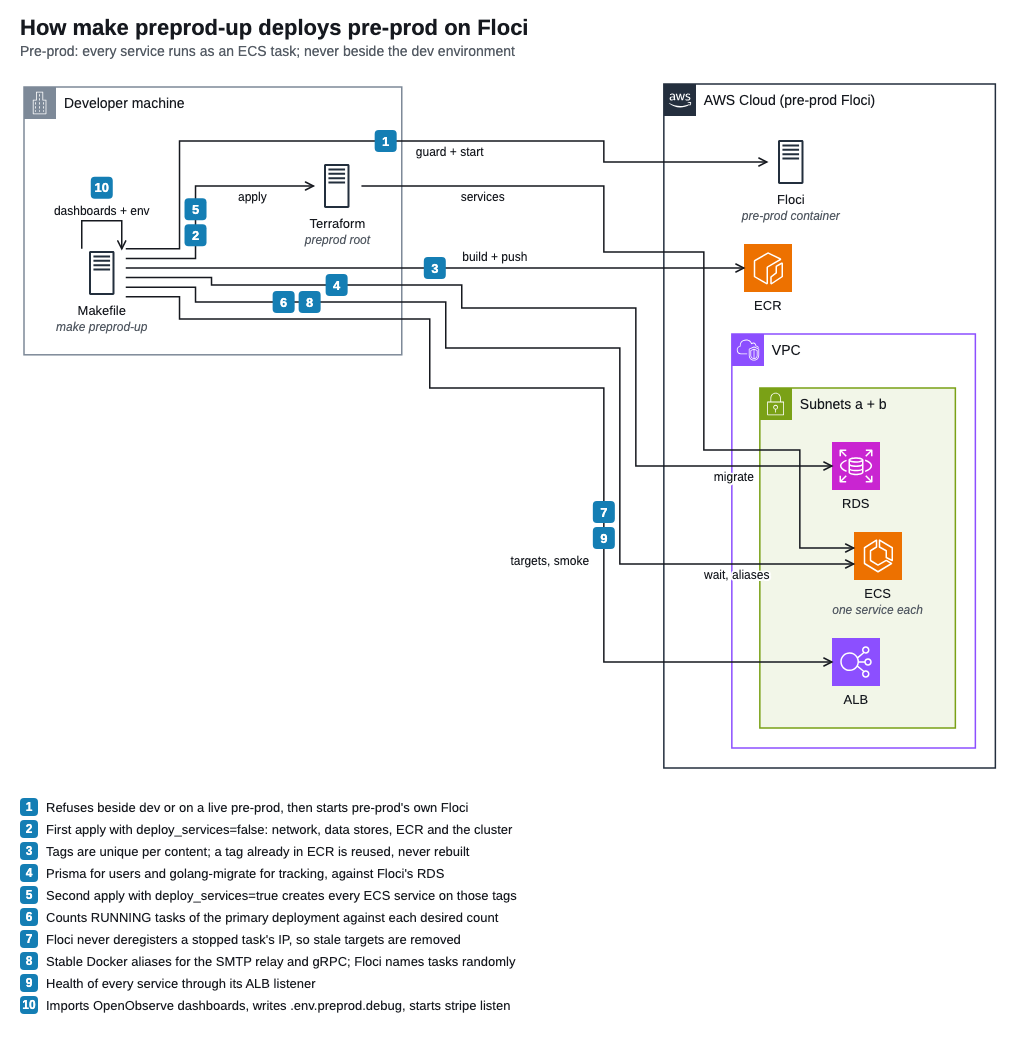
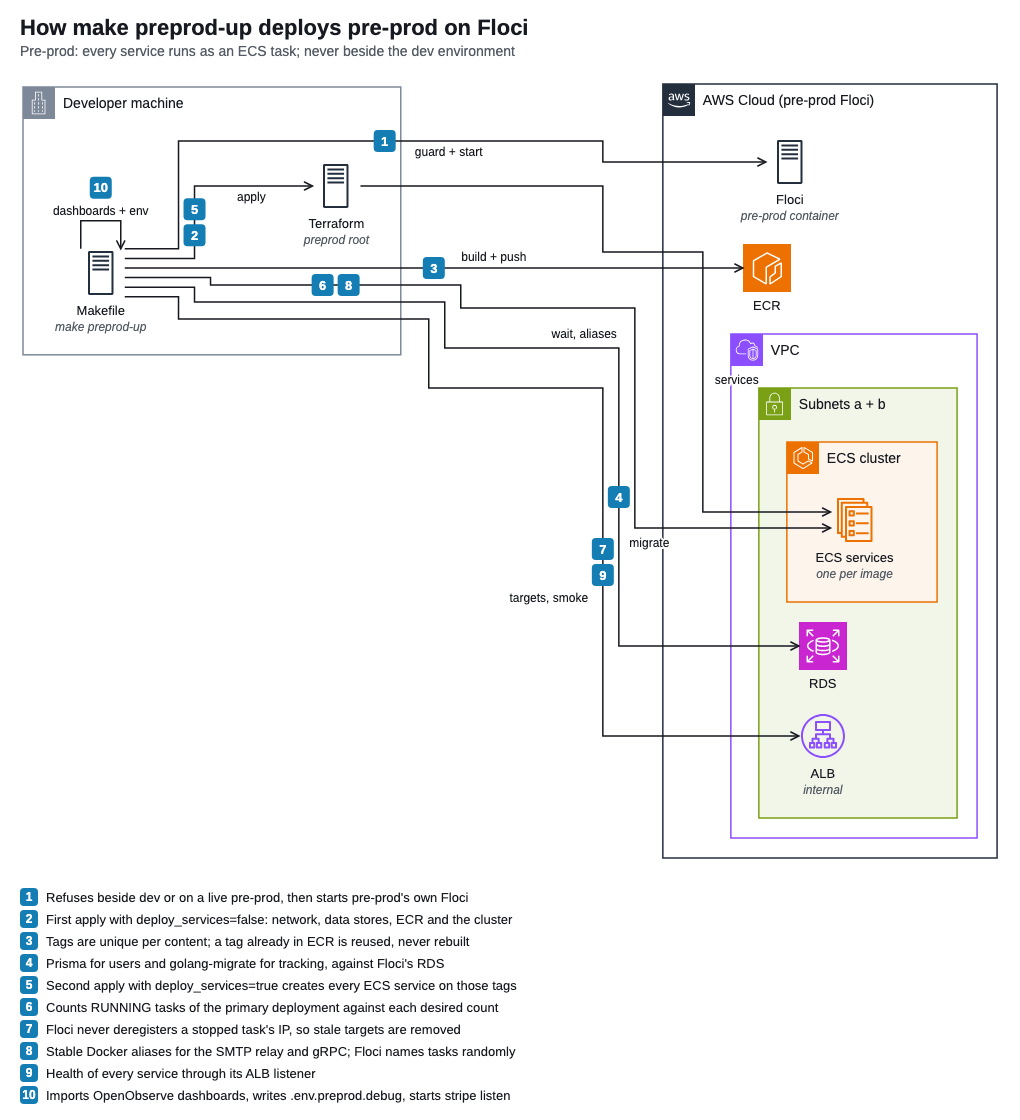
feat(diagrams): ECS cluster and AZ lanes in the pre-prod diagrams
Pre-prod draws one ECS cluster with its seven Fargate tasks inside a VPC split into us-east-1a/b lanes; nested frame ports keep clear of outer routes; dev's nginx task sits in an ECS cluster frame.

diff --git a/diagrams/src/data/architecture/preprod.ts b/diagrams/src/data/architecture/preprod.ts
@@ -1,52 +1,66 @@
 import type { z } from "zod";
 import type { AwsDiagramData } from "../../aws/schema";
 
-// CONTRACT: only what Terraform attaches to module.networking's subnets sits in the subnet (ALB, ECS
-// services, RDS, DocDB); ElastiCache has no subnet group, Lambda no vpc_config. Sources:
-// infra/environments/preprod/{main,services}.tf, infra/modules/{networking,alb,ecs-service,
-// app-config,ecr,messaging,redis}, docker-compose.preprod.yml.
+// CONTRACT: only what Terraform attaches to module.networking's subnets sits in the VPC (ALB, the
+// ECS services of aws_ecs_cluster.this, RDS, DocDB); ElastiCache has no subnet group, Lambda no
+// vpc_config. Sources: infra/environments/preprod/{main,services}.tf, infra/modules/{networking,
+// alb,ecs-service,app-config,ecr,messaging,redis}, docker-compose.preprod.yml.
 export const architecturePreprod: z.input<typeof AwsDiagramData> = {
   title: "Architecture — pre-prod (ECS on Floci)",
-  subtitle: "Every service is an ECS task on its own Floci; the ALB has one listener per service",
+  subtitle: "One ECS cluster across two AZs: ECS places each Fargate task in either subnet; one ALB listener per service",
   direction: "RIGHT",
   groups: [
     { id: "cloud", kind: "aws-cloud", label: "AWS Cloud (pre-prod Floci)" },
     { id: "region", kind: "region", label: "us-east-1", parent: "cloud" },
-    { id: "vpc", kind: "vpc", label: "VPC", parent: "region" },
-    { id: "subnets", kind: "public-subnet", label: "Subnets a + b (us-east-1a/b)", parent: "vpc" },
-    { id: "services", kind: "generic", label: "Service tasks", parent: "subnets" },
+    {
+      id: "vpc", kind: "vpc", label: "VPC 10.1.0.0/16", parent: "region",
+      lanes: [
+        { label: "us-east-1a", sublabel: "Public subnet 10.1.1.0/24" },
+        { label: "us-east-1b", sublabel: "Public subnet 10.1.2.0/24" },
+      ],
+    },
+    { id: "cluster", kind: "ecs-cluster", label: "ECS cluster", parent: "vpc" },
+    { id: "backend", kind: "generic", label: "Backend services", parent: "cluster" },
     { id: "events", kind: "generic", label: "Event pipeline", parent: "region" },
   ],
   nodes: [
     { id: "browser", label: "Browser (SPA)", icon: "client" },
     { id: "apigw", label: "API Gateway", sublabel: "Cognito JWT", icon: "api-gateway", group: "region" },
-    { id: "deploy", label: "Task config", sublabel: "ECR + SSM", icon: "ecr", group: "region" },
-    { id: "alb", label: "ALB", sublabel: "listener per service", icon: "elb", group: "subnets" },
-    { id: "web", label: "Web task", icon: "ecs", group: "subnets" },
-    { id: "orders", label: "Orders task", icon: "ecs", group: "services" },
-    { id: "tracking", label: "Tracking task", icon: "ecs", group: "services" },
-    { id: "users", label: "Users task", icon: "ecs", group: "services" },
-    { id: "obs", label: "Observability tasks", sublabel: "OTel, O2, Mailpit", icon: "ecs", group: "subnets" },
-    { id: "rds", label: "RDS Postgres + MySQL", icon: "rds", group: "subnets" },
-    { id: "docdb", label: "Event store", sublabel: "DocumentDB", icon: "documentdb", group: "subnets" },
+    { id: "ecr", label: "ECR", sublabel: "service images", icon: "ecr", group: "region" },
+    { id: "config", label: "SSM + Secrets", sublabel: "app_config", icon: "ssm", group: "region" },
+    { id: "alb", label: "ALB", sublabel: "internal", icon: "alb", group: "vpc" },
+    { id: "web", label: "web", sublabel: "Fargate · 1 task", icon: "ecs-task", group: "cluster" },
+    { id: "users", label: "users", sublabel: "Fargate · 1 task", icon: "ecs-task", group: "backend" },
+    { id: "orders", label: "orders", sublabel: "Fargate · 1 task", icon: "ecs-task", group: "backend" },
+    { id: "tracking", label: "tracking", sublabel: "Fargate · 1 task", icon: "ecs-task", group: "backend" },
+    { id: "otel", label: "otel-collector", sublabel: "Fargate · 1 task", icon: "ecs-task", group: "cluster" },
+    { id: "o2", label: "openobserve", sublabel: "Fargate · 1 task", icon: "ecs-task", group: "cluster" },
+    { id: "mailpit", label: "mailpit", sublabel: "Fargate · 1 task", icon: "ecs-task", group: "cluster" },
+    { id: "rds", label: "RDS Postgres + MySQL", icon: "rds", group: "vpc" },
+    { id: "docdb", label: "Event store", sublabel: "DocumentDB", icon: "documentdb", group: "vpc" },
     { id: "ws", label: "WebSocket API", sublabel: "connections table", icon: "api-gateway", group: "region" },
     { id: "redis", label: "ElastiCache", icon: "elasticache", group: "region" },
     { id: "sns", label: "Events topic", icon: "sns", group: "events" },
     { id: "sqs", label: "Events + notif queues", icon: "sqs", group: "events" },
     { id: "lambda", label: "events-pipeline", icon: "lambda", group: "events" },
-    { id: "ses", label: "SES", sublabel: "to Mailpit", icon: "ses", group: "events" },
+    { id: "ses", label: "SES", icon: "ses", group: "events" },
   ],
   edges: [
     { id: "browser-alb", from: "browser", to: "alb", label: "HTTP" },
-    { id: "alb-web", from: "alb", to: "web" },
+    { id: "alb-cluster", from: "alb", to: "cluster", label: "listener per service" },
+    { id: "cluster-ecr", from: "cluster", to: "ecr", label: "pull images" },
+    { id: "cluster-config", from: "cluster", to: "config", label: "task config" },
     { id: "web-apigw", from: "web", to: "apigw", label: "proxy" },
     { id: "apigw-alb", from: "apigw", to: "alb", label: "routes" },
-    { id: "alb-services", from: "alb", to: "services", label: "listeners" },
     { id: "orders-users", from: "orders", to: "users", label: "gRPC" },
     { id: "tracking-users", from: "tracking", to: "users", label: "gRPC" },
-    { id: "services-rds", from: "services", to: "rds" },
-    { id: "services-redis", from: "services", to: "redis", label: "cache" },
-    { id: "services-sns", from: "services", to: "sns", label: "publish", async: true },
+    { id: "users-rds", from: "users", to: "rds", label: "Postgres" },
+    { id: "orders-rds", from: "orders", to: "rds", label: "MySQL" },
+    { id: "tracking-rds", from: "tracking", to: "rds", label: "MySQL" },
+    { id: "backend-redis", from: "backend", to: "redis", label: "cache" },
+    { id: "backend-sns", from: "backend", to: "sns", label: "publish", async: true },
+    { id: "backend-otel", from: "backend", to: "otel", label: "telemetry" },
+    { id: "otel-o2", from: "otel", to: "o2", label: "logs + traces" },
     { id: "sns-sqs", from: "sns", to: "sqs", async: true },
     { id: "sqs-lambda", from: "sqs", to: "lambda", label: "events", async: true },
     { id: "sqs-users", from: "sqs", to: "users", label: "notify", async: true },
@@ -54,6 +68,7 @@ export const architecturePreprod: z.input<typeof AwsDiagramData> = {
     { id: "browser-ws", from: "browser", to: "ws", label: "socket" },
     { id: "lambda-docdb", from: "lambda", to: "docdb" },
     { id: "lambda-ses", from: "lambda", to: "ses" },
+    { id: "ses-mailpit", from: "ses", to: "mailpit", label: "SMTP" },
     { id: "lambda-ws", from: "lambda", to: "ws", label: "fan-out" },
   ],
   steps: [],

diff --git a/diagrams/src/aws/layout.ts b/diagrams/src/aws/layout.ts
@@ -322,48 +322,62 @@ export async function layoutDiagram(d: AwsDiagramData): Promise<DiagramLayout> {
 // end slides along its frame side to the nearest free spot and the route's first leg follows it orthogonally.
 function settleFramePorts(d: AwsDiagramData, l: DiagramLayout): void {
   const taken = new Map<string, number[]>();
-  for (const e of d.edges) {
-    for (const which of ["from", "to"] as const) {
-      const gid = e[which];
-      const frame = l.groups[gid];
-      if (!frame) continue;
-      const route = l.edges[e.id]!;
-      const pts = which === "from" ? route.points : [...route.points].reverse();
-      const [p, q] = [pts[0]!, pts[1]!];
-      const side = Math.abs(p.x - frame.x) < 1 ? "WEST" : Math.abs(p.x - frame.x - frame.w) < 1 ? "EAST" : Math.abs(p.y - frame.y) < 1 ? "NORTH" : "SOUTH";
-      const vertical = side === "WEST" || side === "EAST";
-      const grp = d.groups.find((g) => g.id === gid)!;
-      const [start, end] = vertical ? [frame.y, frame.y + frame.h] : [frame.x, frame.x + frame.w];
-      const lo = start + (side === "NORTH" ? groupHeader(grp.kind, grp.label).width : vertical ? GROUP_ICON : 0) + GROUP_PORT_MARGIN;
-      const hi = end - GROUP_PORT_MARGIN;
-      const bands = membersOf(d, gid).map((id) => {
-        const r = l.nodes[id]!;
-        return vertical ? [r.y, r.y + AWS.iconSize] : [r.x + (r.w - AWS.iconSize) / 2, r.x + (r.w + AWS.iconSize) / 2];
+  const parent = new Map(d.groups.map((g) => [g.id, g.parent]));
+  const depth = (g: string | undefined): number => (g ? 1 + depth(parent.get(g)) : 0);
+  // WHY: nested frames settle first, so an outer frame's ports can avoid the routes leaving them.
+  const ends = d.edges.flatMap((e) => (["from", "to"] as const).filter((w) => l.groups[e[w]]).map((which) => ({ e, which })))
+    .sort((a, b) => depth(b.e[b.which]) - depth(a.e[a.which]));
+  for (const { e, which } of ends) {
+    const gid = e[which];
+    const frame = l.groups[gid]!;
+    const route = l.edges[e.id]!;
+    const pts = which === "from" ? route.points : [...route.points].reverse();
+    const [p, q] = [pts[0]!, pts[1]!];
+    const side = Math.abs(p.x - frame.x) < 1 ? "WEST" : Math.abs(p.x - frame.x - frame.w) < 1 ? "EAST" : Math.abs(p.y - frame.y) < 1 ? "NORTH" : "SOUTH";
+    const vertical = side === "WEST" || side === "EAST";
+    const grp = d.groups.find((g) => g.id === gid)!;
+    const [start, end] = vertical ? [frame.y, frame.y + frame.h] : [frame.x, frame.x + frame.w];
+    const lo = start + (side === "NORTH" ? groupHeader(grp.kind, grp.label).width : vertical ? GROUP_ICON : 0) + GROUP_PORT_MARGIN;
+    const hi = end - GROUP_PORT_MARGIN;
+    const bands = membersOf(d, gid).map((id) => {
+      const r = l.nodes[id]!;
+      return vertical ? [r.y, r.y + AWS.iconSize] : [r.x + (r.w - AWS.iconSize) / 2, r.x + (r.w + AWS.iconSize) / 2];
+    });
+    const key = `${gid}|${side}`;
+    // WHY: a route leaving nested content crosses this side too; a port level with it would run on top of it.
+    const line = vertical ? (side === "WEST" ? frame.x : frame.x + frame.w) : (side === "NORTH" ? frame.y : frame.y + frame.h);
+    const crossings = d.edges.filter((o) => o.id !== e.id).flatMap((o) => {
+      const pts2 = l.edges[o.id]!.points;
+      return pts2.slice(1).flatMap((b, i) => {
+        const a = pts2[i]!;
+        const [u0, u1, w0] = vertical ? [a.x, b.x, a.y] : [a.y, b.y, a.x];
+        const along2 = vertical ? b.y : b.x;
+        const crosses = Math.abs(along2 - w0) < 0.5 && Math.min(u0, u1) < line - 0.5 && Math.max(u0, u1) > line + 0.5;
+        return crosses && w0 > start && w0 < end ? [w0] : [];
       });
-      const key = `${gid}|${side}`;
-      const others = taken.get(key) ?? [];
-      const ok = (v: number) => v >= lo && v <= hi && !bands.some(([a, b]) => v > a! - MEMBER_CLEAR && v < b! + MEMBER_CLEAR)
-        && others.every((o) => Math.abs(o - v) >= PORT_PITCH);
-      const cur = vertical ? p.y : p.x;
-      let v = cur;
-      if (!ok(cur)) for (let off = 2; off <= end - start; off += 2) {
-        if (ok(cur + off)) { v = cur + off; break; }
-        if (ok(cur - off)) { v = cur - off; break; }
-      }
-      taken.set(key, [...others, v]);
-      if (v === cur) continue;
-      const moved = vertical ? { x: p.x, y: v } : { x: v, y: p.y };
-      const perpendicular = vertical ? Math.abs(q.y - p.y) < 0.5 : Math.abs(q.x - p.x) < 0.5;
-      // The first leg leaves the frame perpendicular to it; it keeps that direction at the new offset.
-      const out = perpendicular && pts.length > 2
-        ? [moved, vertical ? { x: q.x, y: v } : { x: v, y: q.y }, ...pts.slice(2)]
-        : (() => {
-          const mid = vertical ? { x: (p.x + q.x) / 2, y: v } : { x: v, y: (p.y + q.y) / 2 };
-          const back = vertical ? { x: mid.x, y: p.y } : { x: p.x, y: mid.y };
-          return [moved, mid, back, ...pts.slice(1)];
-        })();
-      route.points = which === "from" ? out : out.reverse();
+    });
+    const others = [...(taken.get(key) ?? []), ...crossings];
+    const ok = (v: number) => v >= lo && v <= hi && !bands.some(([a, b]) => v > a! - MEMBER_CLEAR && v < b! + MEMBER_CLEAR)
+      && others.every((o) => Math.abs(o - v) >= PORT_PITCH);
+    const cur = vertical ? p.y : p.x;
+    let v = cur;
+    if (!ok(cur)) for (let off = 2; off <= end - start; off += 2) {
+      if (ok(cur + off)) { v = cur + off; break; }
+      if (ok(cur - off)) { v = cur - off; break; }
     }
+    taken.set(key, [...(taken.get(key) ?? []), v]);
+    if (v === cur) continue;
+    const moved = vertical ? { x: p.x, y: v } : { x: v, y: p.y };
+    const perpendicular = vertical ? Math.abs(q.y - p.y) < 0.5 : Math.abs(q.x - p.x) < 0.5;
+    // The first leg leaves the frame perpendicular to it; it keeps that direction at the new offset.
+    const out = perpendicular && pts.length > 2
+      ? [moved, vertical ? { x: q.x, y: v } : { x: v, y: q.y }, ...pts.slice(2)]
+      : (() => {
+        const mid = vertical ? { x: (p.x + q.x) / 2, y: v } : { x: v, y: (p.y + q.y) / 2 };
+        const back = vertical ? { x: mid.x, y: p.y } : { x: p.x, y: mid.y };
+        return [moved, mid, back, ...pts.slice(1)];
+      })();
+    route.points = which === "from" ? out : out.reverse();
   }
 }
 

diff --git a/diagrams/src/data/system-context/l2.ts b/diagrams/src/data/system-context/l2.ts
@@ -1,44 +1,54 @@
 import type { z } from "zod";
 import type { AwsDiagramData } from "../../aws/schema";
 
-// CONTRACT: drawn as deployed on AWS (pre-prod): the subnet holds the ECS containers and the
-// stores Terraform attaches to module.networking's subnets; ElastiCache, messaging, Lambda and
-// the APIs stay regional. Sources: infra/modules/{api-gateway,api-gateway-ws,cognito,messaging,
-// lambda,networking}, infra/environments/preprod/services.tf, services/*/openapi.yaml.
+// CONTRACT: drawn as deployed on AWS (pre-prod): the VPC holds the ALB, the ECS cluster's
+// containers and the stores Terraform attaches to module.networking's subnets; ElastiCache,
+// messaging, Lambda and the APIs stay regional. Sources: infra/modules/{api-gateway,
+// api-gateway-ws,cognito,messaging,lambda,networking}, infra/environments/preprod/services.tf,
+// services/*/openapi.yaml.
 export const systemContextL2: z.input<typeof AwsDiagramData> = {
   title: "System context — Level 2 (containers)",
-  subtitle: "API Gateway reaches the services through nginx (dev) or the ALB (pre-prod)",
+  subtitle: "Pre-prod: ECS places each container in either AZ; API Gateway reaches them through the ALB (nginx in dev)",
   direction: "RIGHT",
   groups: [
     { id: "cloud", kind: "aws-cloud", label: "AWS Cloud (as deployed in pre-prod)" },
-    { id: "vpc", kind: "vpc", label: "VPC", parent: "cloud" },
-    { id: "subnets", kind: "public-subnet", label: "Subnets a + b", parent: "vpc" },
-    { id: "services", kind: "generic", label: "Services", parent: "subnets" },
+    {
+      id: "vpc", kind: "vpc", label: "VPC 10.1.0.0/16", parent: "cloud",
+      lanes: [
+        { label: "us-east-1a", sublabel: "Public subnet 10.1.1.0/24" },
+        { label: "us-east-1b", sublabel: "Public subnet 10.1.2.0/24" },
+      ],
+    },
+    { id: "cluster", kind: "ecs-cluster", label: "ECS cluster", parent: "vpc" },
+    { id: "services", kind: "generic", label: "Services", parent: "cluster" },
+    { id: "events-pipeline", kind: "generic", label: "Event pipeline", parent: "cloud" },
   ],
   nodes: [
     { id: "customer", label: "Customer", icon: "users" },
-    { id: "web", label: "Web app", sublabel: "Angular", icon: "ecs", group: "subnets" },
+    { id: "alb", label: "ALB", sublabel: "internal", icon: "alb", group: "vpc" },
+    { id: "web", label: "Web app", sublabel: "Angular", icon: "ecs-task", group: "cluster" },
     { id: "apigw", label: "API Gateway", icon: "api-gateway", group: "cloud" },
     { id: "cognito", label: "Cognito", icon: "cognito", group: "cloud" },
     { id: "ws", label: "WebSocket API", sublabel: "connections table", icon: "api-gateway", group: "cloud" },
-    { id: "orders", label: "Orders", sublabel: ".NET", icon: "ecs", group: "services" },
-    { id: "users", label: "Users", sublabel: "Node.js", icon: "ecs", group: "services" },
-    { id: "tracking", label: "Tracking", sublabel: "Go", icon: "ecs", group: "services" },
-    { id: "pg", label: "Users DB", sublabel: "RDS Postgres", icon: "rds", group: "subnets" },
-    { id: "mysql", label: "Orders + Tracking DB", sublabel: "RDS MySQL", icon: "rds", group: "subnets" },
-    { id: "docdb", label: "Event store", sublabel: "DocumentDB", icon: "documentdb", group: "subnets" },
+    { id: "orders", label: "Orders", sublabel: ".NET", icon: "ecs-task", group: "services" },
+    { id: "users", label: "Users", sublabel: "Node.js", icon: "ecs-task", group: "services" },
+    { id: "tracking", label: "Tracking", sublabel: "Go", icon: "ecs-task", group: "services" },
+    { id: "pg", label: "Users DB", sublabel: "RDS Postgres", icon: "rds", group: "vpc" },
+    { id: "mysql", label: "Orders + Tracking DB", sublabel: "RDS MySQL", icon: "rds", group: "vpc" },
+    { id: "docdb", label: "Event store", sublabel: "DocumentDB", icon: "documentdb", group: "vpc" },
     { id: "redis", label: "ElastiCache", icon: "elasticache", group: "cloud" },
-    { id: "sns", label: "Events topic", icon: "sns", group: "cloud" },
-    { id: "notif", label: "Notifications queue", icon: "sqs", group: "cloud" },
-    { id: "events", label: "Events queue", icon: "sqs", group: "cloud" },
-    { id: "lambda", label: "events-pipeline", icon: "lambda", group: "cloud" },
+    { id: "sns", label: "Events topic", icon: "sns", group: "events-pipeline" },
+    { id: "notif", label: "Notifications queue", icon: "sqs", group: "events-pipeline" },
+    { id: "events", label: "Events queue", icon: "sqs", group: "events-pipeline" },
+    { id: "lambda", label: "events-pipeline", icon: "lambda", group: "events-pipeline" },
   ],
   edges: [
-    { id: "customer-web", from: "customer", to: "web", label: "HTTP" },
+    { id: "customer-alb", from: "customer", to: "alb", label: "HTTP" },
+    { id: "alb-cluster", from: "alb", to: "cluster", label: "listener per service" },
     { id: "customer-ws", from: "customer", to: "ws", label: "socket" },
     { id: "web-apigw", from: "web", to: "apigw", label: "proxy" },
     { id: "apigw-cognito", from: "apigw", to: "cognito", label: "JWT" },
-    { id: "apigw-services", from: "apigw", to: "services", label: "routes" },
+    { id: "apigw-alb", from: "apigw", to: "alb", label: "routes" },
     { id: "orders-users", from: "orders", to: "users", label: "gRPC" },
     { id: "tracking-users", from: "tracking", to: "users", label: "gRPC" },
     { id: "users-pg", from: "users", to: "pg" },

diff --git a/diagrams/src/data/architecture/dev-floci.ts b/diagrams/src/data/architecture/dev-floci.ts
@@ -1,10 +1,10 @@
 import type { z } from "zod";
 import type { AwsDiagramData } from "../../aws/schema";
 
-// CONTRACT: only what Terraform attaches to module.networking's subnets sits in the subnet (nginx ECS
-// task, RDS, DocDB); ElastiCache has no subnet group locally, Lambda no vpc_config. Sources:
-// infra/environments/local/main.tf, infra/modules/{networking,compute,messaging,redis},
-// docker-compose.yml.
+// CONTRACT: only what Terraform attaches to module.networking's subnets sits in the subnet (the
+// nginx ECS task in its cluster, RDS, DocDB); ElastiCache has no subnet group locally, Lambda no
+// vpc_config. Sources: infra/environments/local/main.tf, infra/modules/{networking,compute,
+// messaging,redis}, docker-compose.yml.
 export const architectureDevFloci: z.input<typeof AwsDiagramData> = {
   title: "Architecture — local dev (Floci)",
   subtitle: "Services run in Docker Compose, AWS on Floci; nginx routes by path to all three services",
@@ -15,12 +15,13 @@ export const architectureDevFloci: z.input<typeof AwsDiagramData> = {
     { id: "floci", kind: "local-floci", label: "Floci — local AWS (:4566)" },
     { id: "vpc", kind: "vpc", label: "VPC 10.0.0.0/16", parent: "floci" },
     { id: "subnets", kind: "public-subnet", label: "Subnets a + b", parent: "vpc" },
+    { id: "cluster", kind: "ecs-cluster", label: "ECS cluster", parent: "subnets" },
   ],
   nodes: [
     { id: "browser", label: "Browser (SPA)", icon: "client" },
     { id: "web", label: "Web app", sublabel: "nginx", icon: "server", group: "compose-web" },
     { id: "apigw", label: "API Gateway", sublabel: "Cognito JWT", icon: "api-gateway", group: "floci" },
-    { id: "nginx", label: "nginx task", sublabel: "ECS", icon: "ecs", group: "subnets" },
+    { id: "nginx", label: "nginx", sublabel: "Fargate · 1 task", icon: "ecs-task", group: "cluster" },
     { id: "orders", label: "Orders", icon: "server", group: "compose" },
     { id: "tracking", label: "Tracking", icon: "server", group: "compose" },
     { id: "users", label: "Users", icon: "server", group: "compose" },

diff --git a/diagrams/src/data/flows/preprod-deploy.ts b/diagrams/src/data/flows/preprod-deploy.ts
@@ -2,8 +2,8 @@ import type { z } from "zod";
 import type { AwsDiagramData } from "../../aws/schema";
 
 // WHY: pre-prod — the Makefile and Terraform run on the host; pre-prod's own Floci is the cloud.
-// ALB, ECS services and RDS take module.networking's subnets; ECR is regional
-// (infra/environments/preprod/{main,services}.tf).
+// ALB, the ECS services of aws_ecs_cluster.this and RDS take module.networking's subnets; ECR is
+// regional (infra/environments/preprod/{main,services}.tf).
 export const preprodDeploy: z.input<typeof AwsDiagramData> = {
   title: "How make preprod-up deploys pre-prod on Floci",
   subtitle: "Pre-prod: every service runs as an ECS task; never beside the dev environment",
@@ -13,6 +13,7 @@ export const preprodDeploy: z.input<typeof AwsDiagramData> = {
     { id: "cloud", kind: "aws-cloud", label: "AWS Cloud (pre-prod Floci)" },
     { id: "vpc", kind: "vpc", label: "VPC", parent: "cloud" },
     { id: "subnets", kind: "public-subnet", label: "Subnets a + b", parent: "vpc" },
+    { id: "cluster", kind: "ecs-cluster", label: "ECS cluster", parent: "subnets" },
   ],
   nodes: [
     { id: "op", label: "Makefile", sublabel: "make preprod-up", icon: "server", group: "host" },
@@ -20,8 +21,8 @@ export const preprodDeploy: z.input<typeof AwsDiagramData> = {
     { id: "floci", label: "Floci", sublabel: "pre-prod container", icon: "server", group: "cloud" },
     { id: "ecr", label: "ECR", icon: "ecr", group: "cloud" },
     { id: "rds", label: "RDS", icon: "rds", group: "subnets" },
-    { id: "ecs", label: "ECS", sublabel: "one service each", icon: "ecs", group: "subnets" },
-    { id: "alb", label: "ALB", icon: "elb", group: "subnets" },
+    { id: "ecs", label: "ECS services", sublabel: "one per image", icon: "ecs-service", group: "cluster" },
+    { id: "alb", label: "ALB", sublabel: "internal", icon: "alb", group: "subnets" },
   ],
   edges: [
     { id: "op-floci", from: "op", to: "floci", label: "guard + start" },
